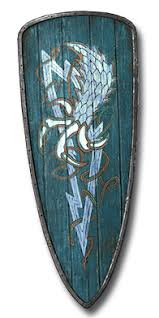
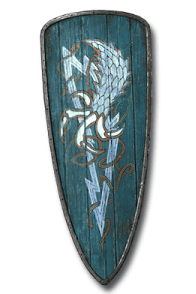
Added a bunch of image files

diff --git a/ItemGame/Item.java b/ItemGame/Item.java
@@ -4,16 +4,16 @@ import java.util.Comparator;
 public class Item {
 
     private static String IMAGE_DIR = "ItemGame/Images/";
-    private static String WEAPON_FILE = "shield.png";
-    private static String HELM_FILE = "helm.jpeg";
+    private static String WEAPON_FILE = "weapon.png";
+    private static String HELM_FILE = "helm.png";
     private static String SHIELD_FILE = "shield.png";
-    private static String CHEST_FILE = "helm.jpeg";
-    private static String AMULET_FILE = "helm.jpeg";
-    private static String RING_FILE = "helm.jpeg";
-    private static String GLOVES_FILE = "helm.jpeg";
-    private static String BELT_FILE = "helm.jpeg";
-    private static String PANTS_FILE = "helm.jpeg";
-    private static String BOOTS_FILE = "helm.jpeg";
+    private static String CHEST_FILE = "chest.png";
+    private static String AMULET_FILE = "amulet.png";
+    private static String RING_FILE = "helm.png";
+    private static String GLOVES_FILE = "gloves.png";
+    private static String BELT_FILE = "belt.png";
+    private static String PANTS_FILE = "pants.png";
+    private static String BOOTS_FILE = "boots.png";
 
     public static final int MAX_STATS = 5; // will generate MAX_STATS - 1 due to how random() method works
     public static final int MIN_STATS = 2;    
